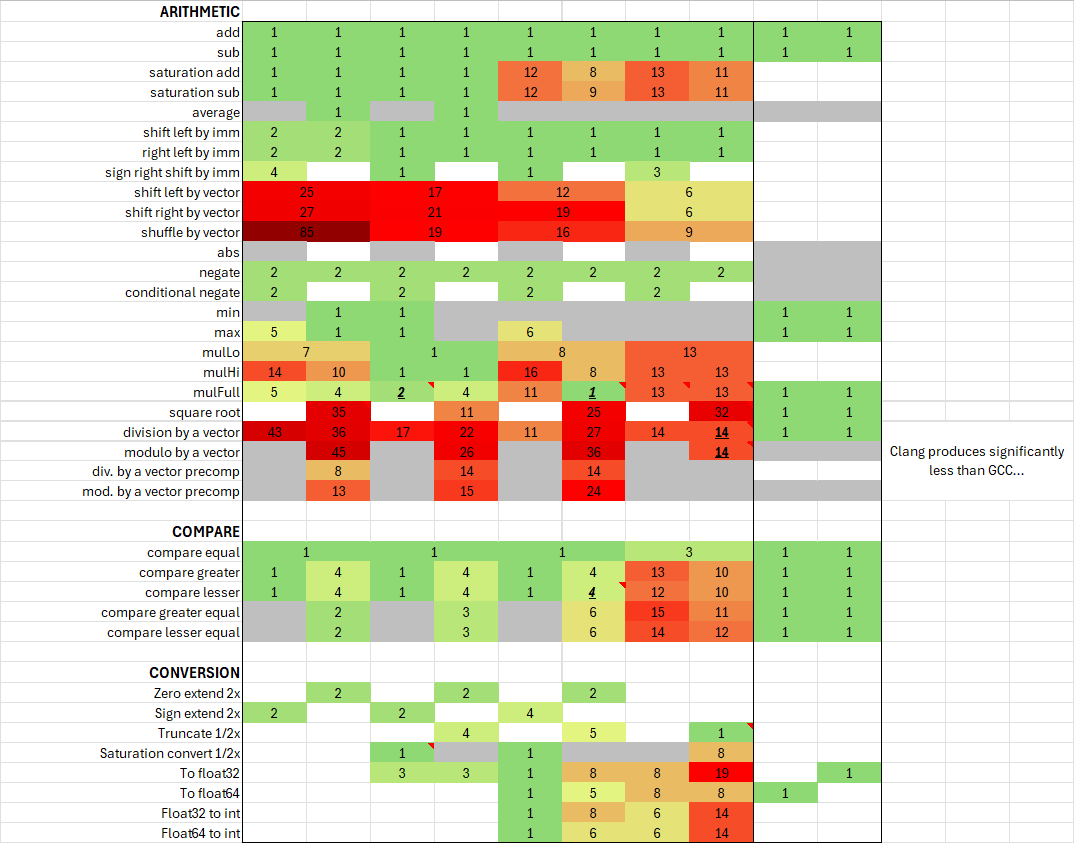
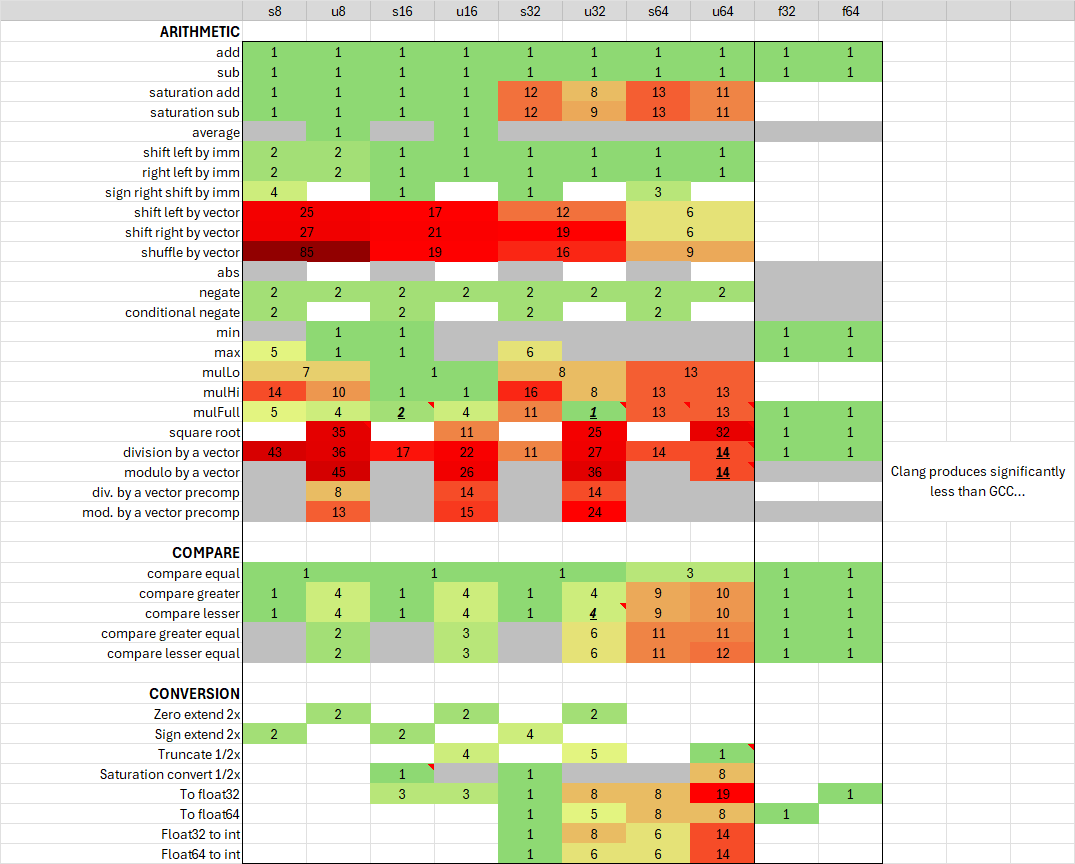
Minor cmpGrt improve + instruction image
- Modified the unsigned 64-bit compare methods to use bit manipulation rather then a call to `_either`. clang already does this.
- Updated the minimal instruction cost to reflect current optimizations
- Fixed the full image to include the column name

diff --git a/include/sseCom_parts/compare.h b/include/sseCom_parts/compare.h
@@ -91,7 +91,7 @@ __m128i _cmpLss_i64x2(__m128i a, __m128i b) {
     __m128i difference = _mm_sub_epi64(a, b);
 
     // ...except when overflow (can only happen when signs differ)
-    __m128i result_MSB = _either_i128(aIsNeg_bIsPos_MSB, difference, signsDiffer_MSB);
+    __m128i result_MSB = _mm_or_si128(_mm_andnot_si128(signsDiffer_MSB, difference), aIsNeg_bIsPos_MSB);
     
     return _fillWithMSB_i64x2(result_MSB);
 }
